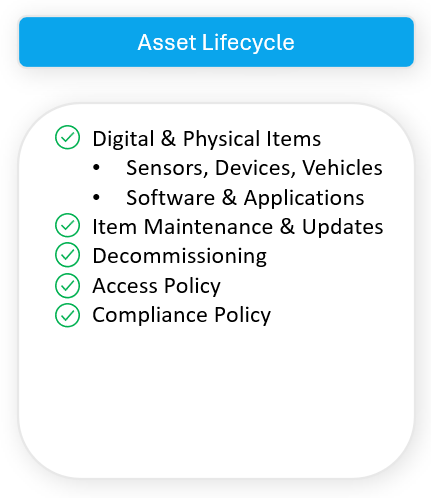
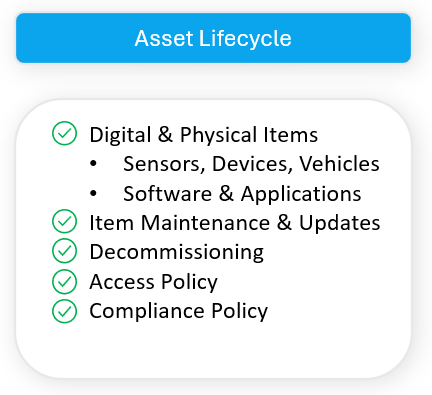
updated menu order and improved some images

Changed region(s): [[0.1206, 0.243, 0.9049, 0.8203], [0.0302, 0.0304, 0.9652, 0.1823], [0.1206, 0.243, 0.181, 0.3646]]

diff --git a/content/usecases/authenticity-media-files/index.md b/content/usecases/authenticity-media-files/index.md
@@ -9,7 +9,7 @@ images: []
 menu:
   usecases:
     parent: "usecases"
-weight: 30
+weight: 31
 toc: true
 aliases:
   - /docs/user-patterns/authenticity-and-attestation/
@@ -18,7 +18,7 @@ aliases:
 
 A very simple yet powerful pattern for using DataTrails is the *Authenticity* pattern. This is a good choice when dealing with data or documents where trust, integrity and authenticity are more important than secrecy. This could be data that is shared between business partners or more simply the relationship between creators and consumers of digital media. 
 
-The DataTrails platform separates data from its provenance metadata. By recording the metadata as a DataTrails ledger it becomes an irrefutable record of the origin, provenance, integrity and authenticity of the media asset. When the data is updated a corresponding Event updates the metadata in DataTrails to build an immutable audit trail of the history of the data.
+The DataTrails platform separates data from its provenance metadata. By recording the metadata in the DataTrails platform it becomes an irrefutable record of the origin, provenance, integrity and authenticity of the media asset. When the data is updated a corresponding Event updates the metadata in DataTrails to build an immutable audit trail of the history of that data.
 
 Together with fine-grained attribute based access controls the platform provides a trust and visibility layer to support trusted data sharing and provides evidence to resolve contested scenarios. 
 
@@ -28,19 +28,18 @@ Both private and public stakeholders can verify that what they see on their scre
 
 The obvious example of a piece of digital media is a photographic image but it equally applies to graphical images and also sound and video recordings. 
 
-A provenance history helps to establish the authenticity and integrity of digital media content. It allows users to verify that the content that they are consuming or sharing is genuine and has not been tampered with or manipulated. In an era of fake news, misinformation, AI, and deepfakes, understanding the provenance of digital media is crucial to ensuring trust and credibility.
+A provenance history helps to establish the authenticity and integrity of digital media content. It allows users to verify that the content that they are consuming or sharing is genuine and has not been tampered with or manipulated. In an era of declining trust in digital media caused by an increased awareness of misinformation, AI, and deepfakes, understanding the provenance of digital media is crucial for restoring trust and credibility.
 
 Digital media provenance ensures transparency, trustworthiness, and accountability benefiting both content creators and consumers.
-voice recordings or video audio files
 
 ### Considerations
 
-**Media Origin**
+**Media Origin:**
 The provenance record helps with attributing credit to the original creators of digital media. It enables content creators to protect their intellectual property rights and ensures they receive appropriate recognition for their work.
 
 Consumers of the media can check the origin and history of the media to give confidence that the media is authentic and if it has been processed.
 
-**Versions**
+**Versions:**
 Changes are recorded as Events. The immutable audit trail provided by DataTrails records the history of the media allowing users to verify that it contains no unofficial changes. 
 
 ## Example 2: Evidential Documents
@@ -59,5 +58,4 @@ The [Document Profile](/developers/developer-patterns/document-profile/) pattern
 
 **Versions:** If the document is a new version of something already stored in DataTrails, then use Events to replace the document's metadata with the updated version. Any authorized stakeholder fetching the Asset record will automatically get the most up-to-date version, and prior versions can be retrieved if necessary from the Event history.
 
-**Access** With Publicly Attested documents and Instaproof, anyone can check a document without the need for a DataTrails account. Private documents can be protected by an Access Policy.
-
+**Access:** For each asset record, it is possible to choose if you want to share that publicly by creating a Public Asset, or with a select group of "friendly" associates by creating a Private asset that is protected by an Access Policy. By sharing publicly, your trail will be verifiable on our Instaproof service by anyone without the need for a DataTrails account.

diff --git a/content/usecases/responsible-ai/index.md b/content/usecases/responsible-ai/index.md
@@ -9,22 +9,24 @@ images: []
 menu: 
   usecases:
     parent: "usecases"
-weight: 31
+weight: 30
 toc: true
 ---
 
 As AI technologies become more common the need for trust in AI increases at a greater rate. There is a need to trust the AI model, the dataset that trains the AI machine, the statements about governance and compliance made by the AI vendor before you can trust the output of the AI machine.
 
-Responsible AI includes an ethical and legal viewpoint to ensure that AI works for the good of society, fundamental to this is Trust and Transparency. 
-We need to be certain that an AI machine is making decisions that are no worse than those that would be made by a trained and competent human.
-We need to know that it has been trained on 'good' data, not 'bad' data.
-We need to know that the system has been designed to be compliant with the correct standards and policies.
-We need to know that it will not misuse our personal information.
-We need to know that the system is being developed and improved to those same standards.
+Responsible AI includes an ethical and legal viewpoint to ensure that AI works for the good of society, fundamental to this is Trust and Transparency.
+
+As consumers of the AI model:
+* We need to be certain that an AI machine is making decisions that are no worse than those that would be made by a trained and competent human.
+* We need to know that it has been trained on 'good' data, not 'bad' data.
+* We need to know that the system has been designed to be compliant with the correct standards and policies.
+* We need to know that it will not misuse our personal information.
+* We need to know that the system is being developed and improved to those same standards.
 
 Above all, we don't want to take the vendors word for it, they need to *prove* it!
 
-DataTrails empowers this by providing an immutable lineage record for all aspects of the AI machine which supports responsible and ethical governance, coupled with transparency and traceability of the training data and output analysis. Together these enhance the explainability and interpretability of the AI machine's output which results in trust and efficient decision making by the user whether that user is a human or another AI machine.     
+DataTrails empowers this by providing an immutable lineage record (the data trail) for all aspects of the AI machine which supports responsible and ethical governance, coupled with transparency and traceability of the training data and output analysis. Together these enhance the explainability and interpretability of the AI machine's output which results in trust and efficient decision making by the user whether that user is a human or another AI machine.     
 
 {{< img src="aitransparency.png" alt="Rectangle" caption="<em>Opportunities for Transparency</em>" class="border-0" >}}
 

diff --git a/content/usecases/sc-chain-of-custody/index.md b/content/usecases/sc-chain-of-custody/index.md
@@ -28,7 +28,7 @@ By combining all three, to complete the Supply Chain, DataTrails allows you to:
 * Use defined and continuously improving process
 
 ## Chain of Custody
-DataTrails records `who did what when` (and `where` when appropriate) to build an immutable and auditable record of the entire history of an product as it passes through the supply chain.
+The DataTrails platform records `who did what when` (and `where` when appropriate) to build an immutable and auditable account of the entire history of an product as it passes through the supply chain. This is the Data Trail.
 
 The platform allows multi-party sharing and visibility of supply chain data which empowers trusted data exchange and verification. Supply chain partners have a single source of truth that gives them confidence that decisions are made by the right people, at the right step of the process, using the right data and with confidence that the data is the correct version and is untampered. 
 
